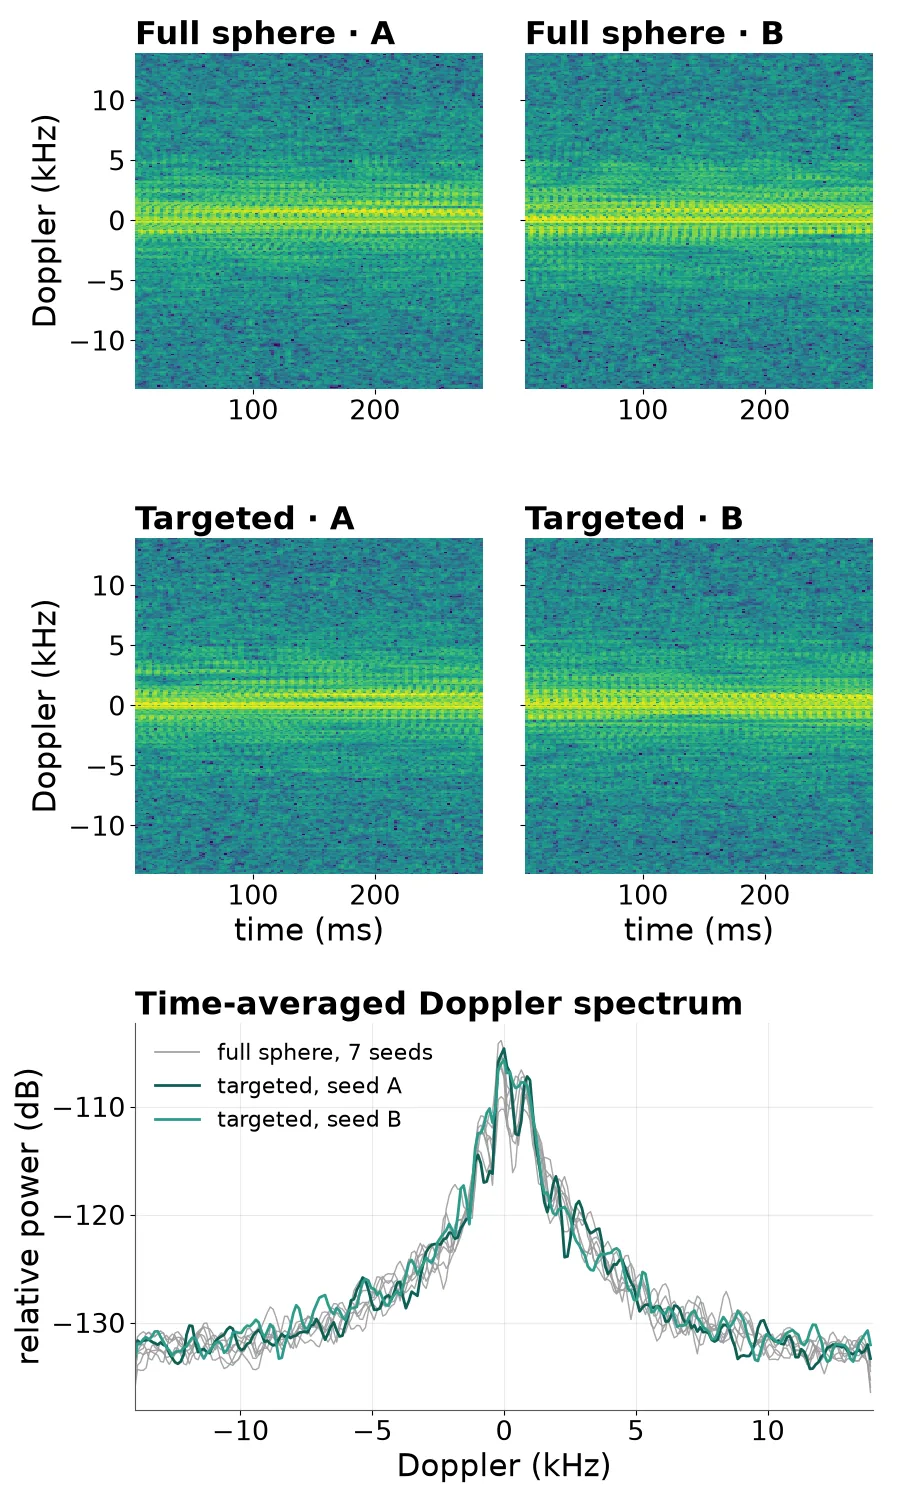
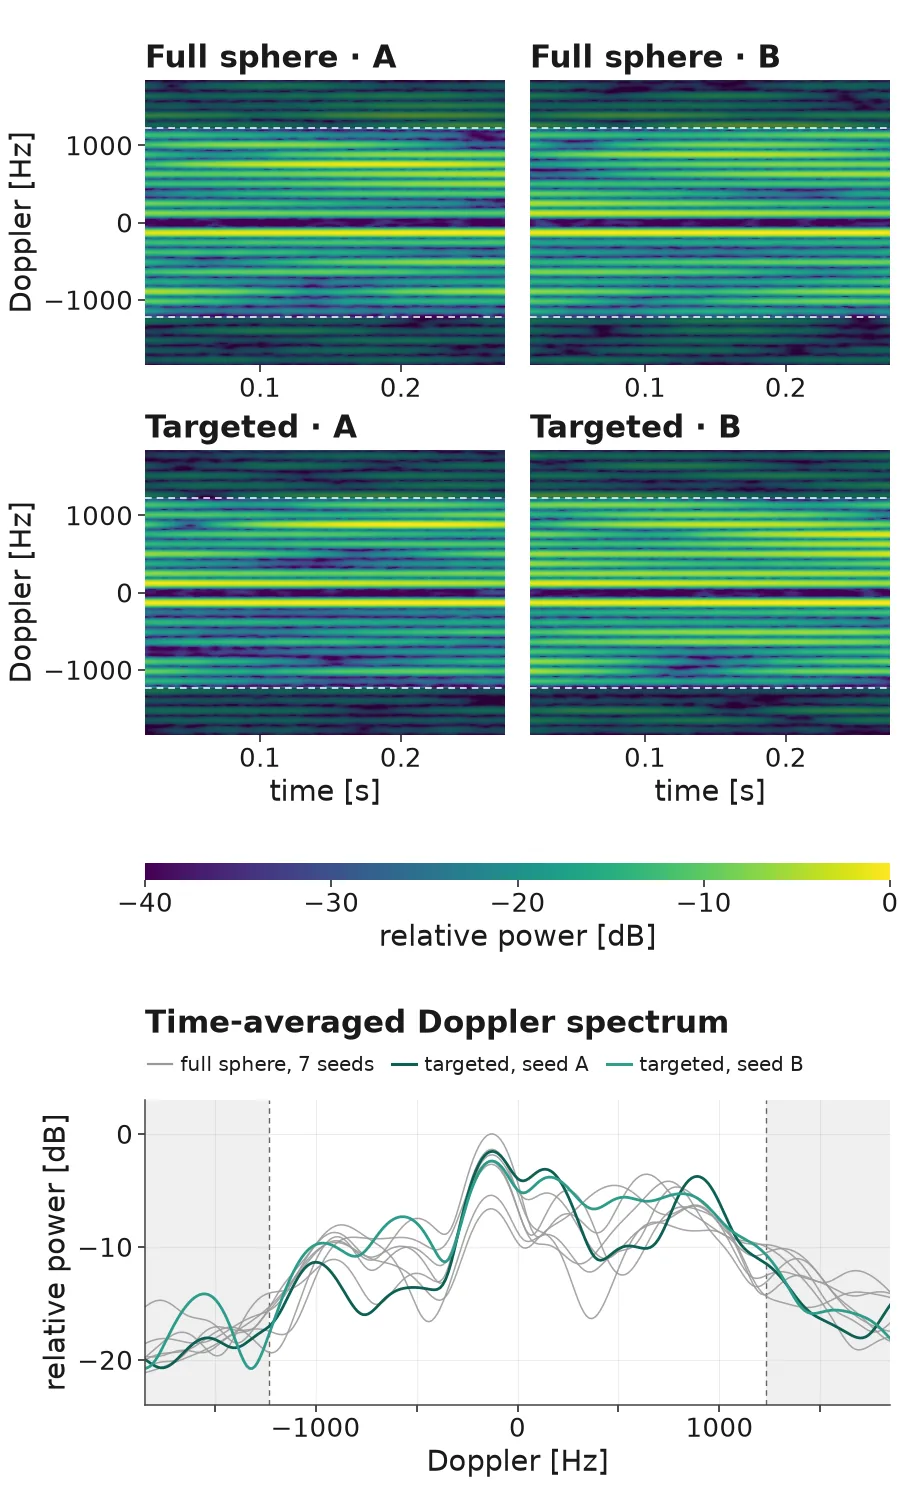
Re-rendered figures: smooth range-Doppler maps, windowed zero-padded spectrograms, new long-range plot

diff --git a/index.html b/index.html
@@ -14,7 +14,7 @@
   <meta property="og:title" content="Sensing Drones with Communication Signals">
   <meta property="og:description" content="Ongoing research by Yunjung Jeong: a ray-traced digital twin of how one radio could detect, track and characterise a drone and its spinning blades. All results shown are simulated.">
   <meta property="og:url" content="https://yunjung-jeong.github.io/Sionna-RT-Simulation/">
-  <meta property="og:image" content="https://yunjung-jeong.github.io/Sionna-RT-Simulation/images/00_overview.png?v=e4078b7a">
+  <meta property="og:image" content="https://yunjung-jeong.github.io/Sionna-RT-Simulation/images/00_overview.png?v=7dbac818">
   <meta property="og:image:width" content="1600">
   <meta property="og:image:height" content="530">
   <meta property="og:image:alt" content="Simulated scene of a drone and a radio, the range-Doppler map of the drone's echo, and a micro-Doppler spectrogram with evenly spaced blade-flash lines.">
@@ -149,11 +149,11 @@
       <h2 id="signatures-title">Signatures</h2>
       <div class="mosaic">
         <figure class="tile tile-full">
-          <a class="frame" href="images/00_overview.png?v=e4078b7a" title="Open the full-size image"><picture><source media="(max-width: 56rem)" srcset="images/00_overview_narrow.png?v=ed2edc37" width="900" height="1390"><img src="images/00_overview.png?v=e4078b7a" width="1600" height="530" loading="lazy" decoding="async" alt="Three panels. First, a rendered outdoor scene: a blue marker labelled drone hovers in the sky on the left, a pink marker labelled radio sits just above the grey ground on the right, a dashed line of sight joins them, and an inset shows the quadcopter model. Second, a range-Doppler heat map in which the drone appears as bright horizontal bands at short range. Third, a spectrogram of Doppler over time with many evenly spaced horizontal lines above and below zero."></picture></a>
+          <a class="frame" href="images/00_overview.png?v=7dbac818" title="Open the full-size image"><picture><source media="(max-width: 56rem)" srcset="images/00_overview_narrow.png?v=1e9cfcc0" width="900" height="1390"><img src="images/00_overview.png?v=7dbac818" width="1600" height="530" loading="lazy" decoding="async" alt="Three panels. First, a rendered outdoor scene: a blue marker labelled drone hovers in the sky on the left, a pink marker labelled radio sits just above the grey ground on the right, a dashed line of sight joins them, and an inset shows the quadcopter model. Second, a range-Doppler heat map in which the drone appears as bright horizontal bands at short range. Third, a spectrogram of Doppler over time with many evenly spaced horizontal lines above and below zero."></picture></a>
           <figcaption class="tile-cap"><span class="tile-label">Overview</span> From scene to signature: the ray-traced scene, its range-Doppler map, and the blade-flash lines.</figcaption>
         </figure>
         <figure class="tile tile-half">
-          <a class="frame" href="images/02_range_doppler.png?v=2953c0cb" title="Open the full-size image"><picture><img src="images/02_range_doppler.png?v=2953c0cb" width="1000" height="760" loading="lazy" decoding="async" alt="Range-Doppler heat map with range on the horizontal axis and Doppler on the vertical axis. Bright horizontal bands, strongest just above zero Doppler, fill a stretch of short ranges where the drone is; farther ranges are dark."></picture></a>
+          <a class="frame" href="images/02_range_doppler.png?v=c7e99589" title="Open the full-size image"><picture><img src="images/02_range_doppler.png?v=c7e99589" width="1000" height="760" loading="lazy" decoding="async" alt="Range-Doppler heat map with range on the horizontal axis and Doppler on the vertical axis. Bright horizontal bands, strongest just above zero Doppler, fill a stretch of short ranges where the drone is; farther ranges are dark."></picture></a>
           <figcaption class="tile-cap"><span class="tile-label">Range-Doppler</span> The drone shows up as bands at its range, spread in Doppler by the blades.</figcaption>
         </figure>
         <figure class="tile tile-half">
@@ -161,7 +161,7 @@
           <figcaption class="tile-cap"><span class="tile-label">Micro-Doppler</span> Evenly spaced blade-flash lines, with and without the ground.</figcaption>
         </figure>
         <figure class="tile tile-full">
-          <a class="frame" href="images/33_blade_lines.webp?v=4ece6429" title="Open the full-size image"><picture><source media="(max-width: 56rem)" srcset="images/33_blade_lines_narrow.webp?v=673e0284" width="900" height="1500"><img src="images/33_blade_lines.webp?v=4ece6429" width="1600" height="900" loading="lazy" decoding="async" alt="Top: a long spectrogram of Doppler versus time over 0.69 seconds with a steady bright band around zero Doppler. Bottom left: a fine Doppler spectrum where four overlaid seeds show a comb of evenly spaced sharp lines. Bottom right: a zoom from minus 600 to plus 600 hertz showing eight sharp lines about 125 hertz apart."></picture></a>
+          <a class="frame" href="images/33_blade_lines.webp?v=6345604c" title="Open the full-size image"><picture><source media="(max-width: 56rem)" srcset="images/33_blade_lines_narrow.webp?v=47336c19" width="900" height="1500"><img src="images/33_blade_lines.webp?v=6345604c" width="1600" height="900" loading="lazy" decoding="async" alt="Top: a spectrogram of Doppler versus time over a 0.69 second hover, showing many evenly spaced horizontal blade-flash lines between two dashed blade-tip lines. Bottom left: a fine Doppler spectrum where four overlaid seeds show a comb of sharp lines, with the region beyond the blade-tip Doppler shaded. Bottom right: a zoom from minus 600 to plus 600 hertz showing smooth, sharp lines about 125 hertz apart."></picture></a>
           <figcaption class="tile-cap"><span class="tile-label">Blade lines</span> Record the hover long enough and the flashes resolve into sharp blade-flash lines.</figcaption>
         </figure>
         <figure class="tile tile-full">
@@ -241,15 +241,15 @@
       <h2 id="speed-title">Speed &amp; range</h2>
       <div class="mosaic">
         <figure class="tile tile-full">
-          <a class="frame" href="images/30_launch_compare.webp?v=5b895259" title="Open the full-size image"><picture><source media="(max-width: 56rem)" srcset="images/30_launch_compare_narrow.webp?v=a8e7736a" width="900" height="1500"><img src="images/30_launch_compare.webp?v=5b895259" width="1600" height="820" loading="lazy" decoding="async" alt="Four spectrograms of Doppler versus time and a line plot. Top row: full-sphere launch with two random seeds; bottom row: targeted launch with two random seeds. All four show the same bright band around zero Doppler. The line plot overlays the time-averaged Doppler spectra: seven grey full-sphere curves and two teal targeted curves that fall off together."></picture></a>
+          <a class="frame" href="images/30_launch_compare.webp?v=92af53f1" title="Open the full-size image"><picture><source media="(max-width: 56rem)" srcset="images/30_launch_compare_narrow.webp?v=2f62bd6b" width="900" height="1500"><img src="images/30_launch_compare.webp?v=92af53f1" width="1600" height="820" loading="lazy" decoding="async" alt="Four spectrograms of Doppler versus time and a line plot. Top row: full-sphere launch with two random seeds; bottom row: targeted launch with two random seeds. All four show the same evenly spaced blade-flash lines between dashed blade-tip lines. The line plot overlays the time-averaged Doppler spectra: seven grey full-sphere curves and two teal targeted curves that follow the same envelope."></picture></a>
           <figcaption class="tile-cap"><span class="tile-label">Targeted launch</span> Targeted ray launching matches a full-sphere launch within its seed-to-seed spread, up to ~40× faster.</figcaption>
         </figure>
-        <figure class="tile tile-half num-tile">
-          <div class="num-body"><span class="num-big">250&nbsp;m · 500&nbsp;m · 1&nbsp;km</span><span class="num-line">Echo level within 0.6&nbsp;dB of the radar equation, open sky</span></div>
-          <figcaption class="tile-cap"><span class="tile-label">Long range</span> A drone up to 1&nbsp;km away, still on the expected trend.</figcaption>
+        <figure class="tile tile-half">
+          <a class="frame" href="images/34_long_range.webp?v=1f5017ad" title="Open the full-size image"><picture><source media="(max-width: 56rem)" srcset="images/34_long_range_narrow.webp?v=86192883" width="900" height="1000"><img src="images/34_long_range.webp?v=1f5017ad" width="1000" height="760" loading="lazy" decoding="async" alt="Line plot of echo level versus range on a logarithmic axis from 15 metres to 1 kilometre in open sky. Dots for the mean of several simulation runs lie on a dashed radar-equation line falling as range to the minus fourth power; a strip below shows single-run deviations within about plus or minus one decibel."></picture></a>
+          <figcaption class="tile-cap"><span class="tile-label">Long range</span> A drone up to 1&nbsp;km away in open sky: range averages within 0.2&nbsp;dB of the radar equation, single runs about ±0.9&nbsp;dB.</figcaption>
         </figure>
         <figure class="tile tile-half">
-          <a class="frame" href="images/32_range_stft.webp?v=4e57f420" title="Open the full-size image"><picture><source media="(max-width: 56rem)" srcset="images/32_range_stft_narrow.webp?v=40a03d3a" width="900" height="1400"><img src="images/32_range_stft.webp?v=4e57f420" width="1600" height="520" loading="lazy" decoding="async" alt="Three spectrograms of Doppler versus time for the same hovering drone in open sky at 15, 42 and 85 metres. All three show a bright band around zero Doppler with striations out to a few kilohertz; the band looks much the same at every range."></picture></a>
+          <a class="frame" href="images/32_range_stft.webp?v=06a3a0e1" title="Open the full-size image"><picture><source media="(max-width: 56rem)" srcset="images/32_range_stft_narrow.webp?v=bf8564a6" width="900" height="1400"><img src="images/32_range_stft.webp?v=06a3a0e1" width="1600" height="520" loading="lazy" decoding="async" alt="Three spectrograms of Doppler versus time for the same hovering drone in open sky at 15, 42 and 85 metres, each showing evenly spaced blade-flash lines between dashed blade-tip lines; the pattern looks much the same at every range."></picture></a>
           <figcaption class="tile-cap"><span class="tile-label">Farther</span> The same hover at 15, 42 and 85&nbsp;m keeps its signature shape.</figcaption>
         </figure>
         <figure class="tile tile-full">
